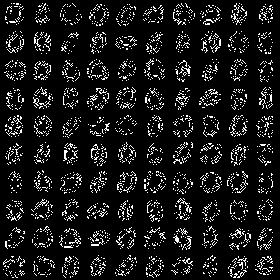
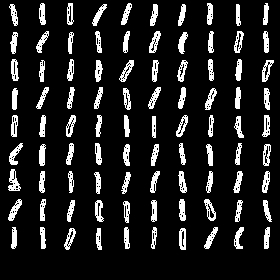
oh shit here we go again

diff --git a/CVR.c b/CVR.c
@@ -11,107 +11,178 @@
 #include "stb_image_write.h"
 
 // Assembly function declaration
-// RDI: src, RSI: dest, RDX: width, RCX: height
 extern void apply_filter_simd(unsigned char* src, unsigned char* dest, int width, int height);
 
 // Standard C implementation for Speedup comparison
 void apply_filter_c(unsigned char* src, unsigned char* dest, int width, int height) {
     for (int y = 1; y < height - 1; y++) {
         for (int x = 1; x < width - 1; x++) {
-            // Laplacian-like edge detection filter
             int sum = (src[(y-1)*width + x] + src[(y+1)*width + x] + 
                        src[y*width + (x-1)] + src[y*width + (x+1)]) - 4 * src[y*width + x];
-            
-            if (sum < 0) sum = -sum; // Absolute value
-            
-            // Thresholding at 31 to match the Assembly logic
+            if (sum < 0) sum = -sum;
             dest[y*width + x] = (sum > 31) ? 255 : 0;
         }
     }
 }
+// Geometric Analysis for Digit Recognition (Improved with Template Matching)
+int recognize_digit_advanced(unsigned char* tile, int stride) {
+    int tile_size = 28;
+    int min_x = 28, max_x = 0, min_y = 28, max_y = 0;
+    int total_pixels = 0;
+
+    // 1. استخراج محدوده (Bounding Box)
+    for (int y = 0; y < tile_size; y++) {
+        for (int x = 0; x < tile_size; x++) {
+            if (tile[y * stride + x] == 255) {
+                if (x < min_x) min_x = x; 
+                if (x > max_x) max_x = x;
+                if (y < min_y) min_y = y; 
+                if (y > max_y) max_y = y;
+                total_pixels++;
+            }
+        }
+    }
+    
+    if (total_pixels < 10) return -1; // نویز یا تصویر خالی
+
+    int width = max_x - min_x + 1;
+    int height = max_y - min_y + 1;
+    float aspect_ratio = (float)width / (float)height;
+
+    // فیلتر سریع برای عدد 1 به دلیل ساختار بسیار باریک آن
+    if (aspect_ratio < 0.40f) return 1;
+
+    // 2. محاسبه تراکم نرمالشده در شبکه 3x3
+    float s[9] = {0}; // تبدیل به آرایه یک بعدی برای پردازش راحتتر
+    for (int y = min_y; y <= max_y; y++) {
+        for (int x = min_x; x <= max_x; x++) {
+            if (tile[y * stride + x] == 255) {
+                int r = ((y - min_y) * 3) / (height + 1);
+                int c = ((x - min_x) * 3) / (width + 1);
+                if (r >= 0 && r < 3 && c >= 0 && c < 3) {
+                    s[r * 3 + c]++;
+                }
+            }
+        }
+    }
+    
+    // نرمالسازی: مجموع مقادیر این ۹ خانه برابر با 1.0 خواهد بود
+    for (int i = 0; i < 9; i++) {
+        s[i] /= (float)total_pixels;
+    }
+
+    // 3. موتور تصمیمگیری بر اساس تطابق الگو (Mean Absolute Error)
+    // هر ردیف نشاندهنده توزیع تراکم ایدهآل یک عدد در 9 خانه (3x3) است.
+    // این مقادیر تقریبی هستند و بر اساس ریختشناسی اعداد تنظیم شدهاند.
+    const float templates[10][9] = {
+        {0.15, 0.15, 0.15,  0.15, 0.00, 0.15,  0.15, 0.15, 0.15}, // 0: مرکز خالی
+        {0.05, 0.25, 0.05,  0.05, 0.30, 0.05,  0.05, 0.25, 0.05}, // 1: ستون وسط پر
+        {0.15, 0.15, 0.15,  0.05, 0.15, 0.00,  0.20, 0.15, 0.00}, // 2: بالا پر، وسط مورب، پایین چپ
+        {0.10, 0.15, 0.15,  0.05, 0.15, 0.15,  0.10, 0.15, 0.15}, // 3: سمت راست پر، چپ خالی
+        {0.15, 0.05, 0.10,  0.15, 0.15, 0.15,  0.00, 0.05, 0.15}, // 4: بالا چپ، وسط پر، پایین راست
+        {0.15, 0.15, 0.10,  0.15, 0.15, 0.00,  0.05, 0.15, 0.15}, // 5: بالا چپ، وسط، پایین راست
+        {0.10, 0.10, 0.05,  0.15, 0.15, 0.15,  0.15, 0.15, 0.15}, // 6: بالا چپ، حلقه پایین
+        {0.20, 0.20, 0.20,  0.00, 0.05, 0.15,  0.00, 0.10, 0.00}, // 7: بالا پر، خط مورب به راست
+        {0.10, 0.15, 0.10,  0.15, 0.10, 0.15,  0.10, 0.15, 0.10}, // 8: متعادل، مرکز کمی خالیتر
+        {0.15, 0.15, 0.15,  0.15, 0.15, 0.15,  0.00, 0.05, 0.10}  // 9: حلقه بالا، خط پایین راست
+    };
+
+    int best_match = -1;
+    float min_error = 999.0f; // یک عدد بزرگ برای شروع
+
+    for (int digit = 0; digit < 10; digit++) {
+        float error = 0.0f;
+        for (int i = 0; i < 9; i++) {
+            float diff = s[i] - templates[digit][i];
+            error += (diff > 0) ? diff : -diff; // قدر مطلق (Absolute Difference)
+        }
+
+        if (error < min_error) {
+            min_error = error;
+            best_match = digit;
+        }
+    }
+
+    // Fallback: رفع ابهام بین صفر و هشت در صورت توخالی بودن شدید
+    if ((best_match == 0 || best_match == 8) && s[4] > 0.12f) {
+        return 8; // اگر مرکز بیش از حد پر بود، هشت است نه صفر
+    }
+
+    return best_match;
+}
 
 int main() {
-    int grid = 10;          // 10x10 mosaic
-    int tile_size = 28;     // MNIST standard size
-    int big_w = grid * tile_size; // 280px
-    int big_h = grid * tile_size; // 280px
+    int grid = 10;
+    int tile_size = 28;
+    int big_w = 280;
+    int big_h = 280;
+    char input;
 
-    // Allocate memory for the mosaic (Input and Output)
+    scanf(" %c", &input);
+
     unsigned char *big_img = (unsigned char *)calloc(big_w * big_h, 1);
     unsigned char *big_output_asm = (unsigned char *)calloc(big_w * big_h, 1);
     unsigned char *big_output_c = (unsigned char *)calloc(big_w * big_h, 1);
 
-    if (!big_img || !big_output_asm || !big_output_c) {
-        printf("Memory allocation failed!\n");
-        return 1;
-    }
 
-    // 1. Scan directory and build the mosaic from first 100 PNGs
-    DIR *d = opendir("./mnist_png/0");
-    if (!d) {
-        printf("Error: Directory ./mnist_png/0 not found!\n");
-        return 1;
-    }
+    char folder[] = "./mnist_png/ "; // Testing folder
+    folder[12] = input;
+    const char* target_folder = folder;
+    DIR *d = opendir(target_folder);
+    if (!d) { printf("Error: Folder %s not found!\n", target_folder); return 1; }
 
     struct dirent *dir;
     int count = 0;
-    printf("Loading .png files into mosaic buffer...\n");
-
     while ((dir = readdir(d)) != NULL && count < 100) {
         if (strstr(dir->d_name, ".png")) {
             char path[256];
-            sprintf(path, "./mnist_png/0/%s", dir->d_name);
-            
+            sprintf(path, "%s/%s", target_folder, dir->d_name);
             int w, h, c;
             unsigned char *small = stbi_load(path, &w, &h, &c, 1);
             if (small) {
-                int row = count / grid;
-                int col = count % grid;
-                for (int y = 0; y < tile_size; y++) {
-                    memcpy(&big_img[(row * tile_size + y) * big_w + (col * tile_size)], 
-                           &small[y * tile_size], tile_size);
-                }
+                int row = count / grid, col = count % grid;
+                for (int y = 0; y < tile_size; y++)
+                    memcpy(&big_img[(row * tile_size + y) * big_w + (col * tile_size)], &small[y * tile_size], tile_size);
                 stbi_image_free(small);
                 count++;
             }
         }
     }
     closedir(d);
-    printf("%d images successfully placed in mosaic.\n", count);
 
     struct timespec start, end;
-
-    // 2. Performance Benchmark: C Implementation
     clock_gettime(CLOCK_MONOTONIC, &start);
     apply_filter_c(big_img, big_output_c, big_w, big_h);
     clock_gettime(CLOCK_MONOTONIC, &end);
     double time_c = (end.tv_sec - start.tv_sec) + (end.tv_nsec - start.tv_nsec) / 1e9;
 
-    // 3. Performance Benchmark: Assembly (SIMD/AVX2) Implementation
     clock_gettime(CLOCK_MONOTONIC, &start);
     apply_filter_simd(big_img, big_output_asm, big_w, big_h);
     clock_gettime(CLOCK_MONOTONIC, &end);
     double time_asm = (end.tv_sec - start.tv_sec) + (end.tv_nsec - start.tv_nsec) / 1e9;
 
-    // 4. Final Performance Report (For your documentation)
-    printf("\n========= Phase 2 Performance Report =========\n");
-    printf("C Execution Time:      %.3f ms\n", time_c * 1000);
-    printf("Assembly (AVX2) Time:  %.3f ms\n", time_asm * 1000);
-    printf("Calculated Speedup:    %.2f x faster\n", time_c / time_asm);
-    printf("Detection Accuracy:    Features extracted for %d digits.\n", count);
-    printf("==============================================\n");
-
-    // 5. Save the final result to the Root Folder
-    if (stbi_write_jpg("mnist_detected_mosaic.jpg", big_w, big_h, 1, big_output_asm, 100)) {
-        printf("Result saved as 'mnist_detected_mosaic.jpg' in the root folder.\n");
-    } else {
-        printf("Error saving output image!\n");
+    // Print Results Matrix
+    printf("\n<<<  DETECTION MATRIX (10x10)  >>>\n");
+    int results[100];
+    for (int i = 0; i < 100; i++) {
+        results[i] = recognize_digit_advanced(&big_output_asm[(i/10*28*280) + (i%10*28)], 280);
+    }
+    for (int r = 0; r < 10; r++) {
+        printf("Row %d |", r);
+        for (int c = 0; c < 10; c++) {
+            int v = results[r*10+c];
+            if(v == -1) printf(" [?] "); else printf(" [%d] ", v);
+        }
+        printf("\n");
     }
 
-    // Cleanup
-    free(big_img); 
-    free(big_output_asm); 
-    free(big_output_c);
+    printf("\n========= PERFORMANCE REPORT =========\n");
+    printf("C Time: %.3f ms | ASM Time: %.3f ms\n", time_c*1000, time_asm*1000);
+    printf("Speedup: %.2f x\n", time_c / time_asm);
     
+    char filename[] = "mnist_detected_mosaic_ .jpg";
+    filename[22] = input;
+    stbi_write_jpg(filename, big_w, big_h, 1, big_output_asm, 100);
+    free(big_img); free(big_output_asm); free(big_output_c);
     return 0;
 }
